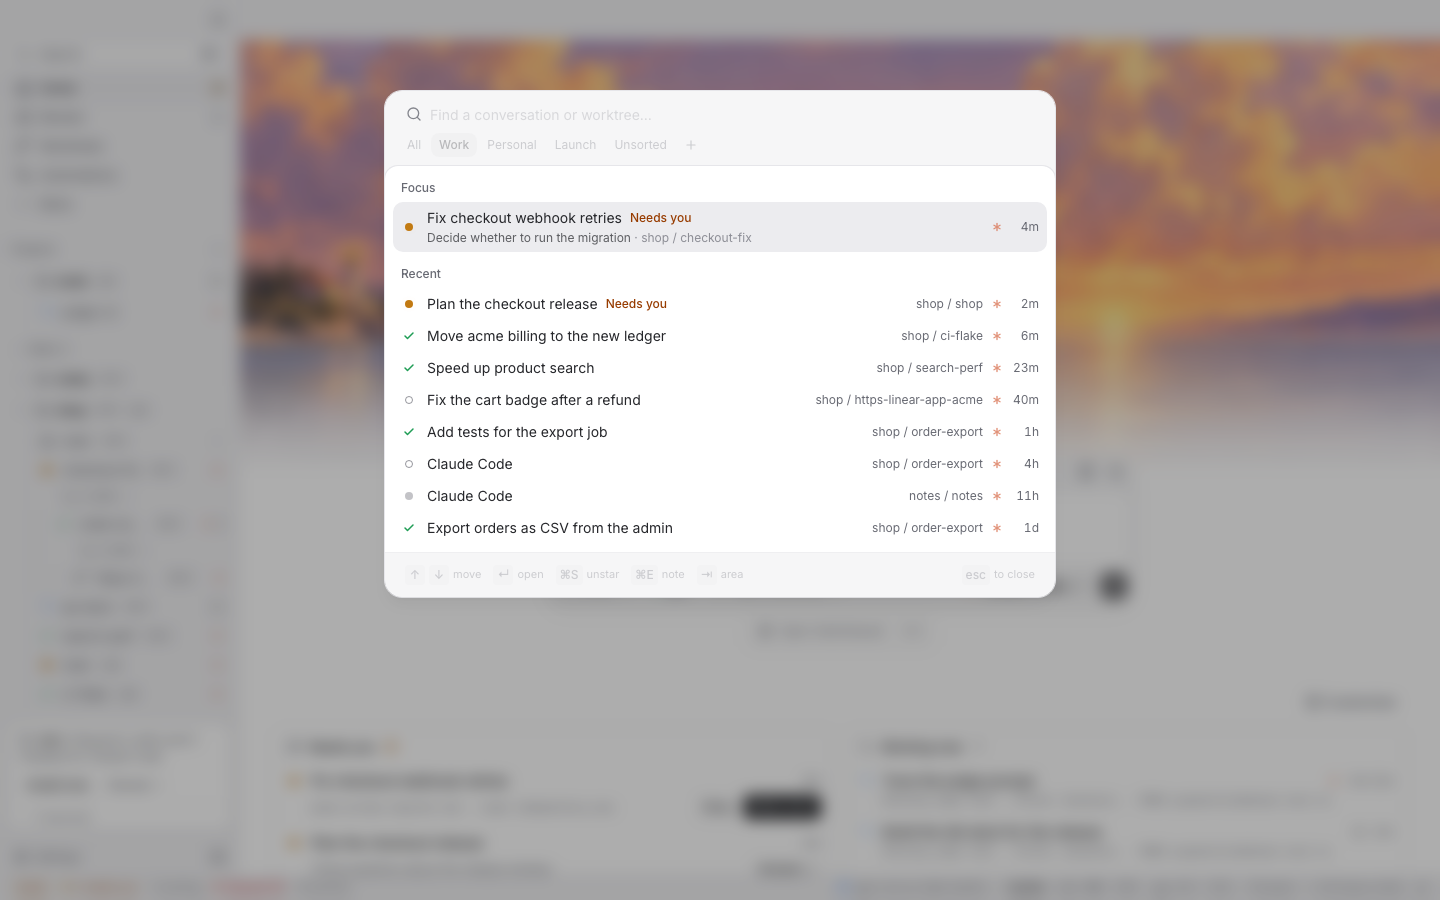
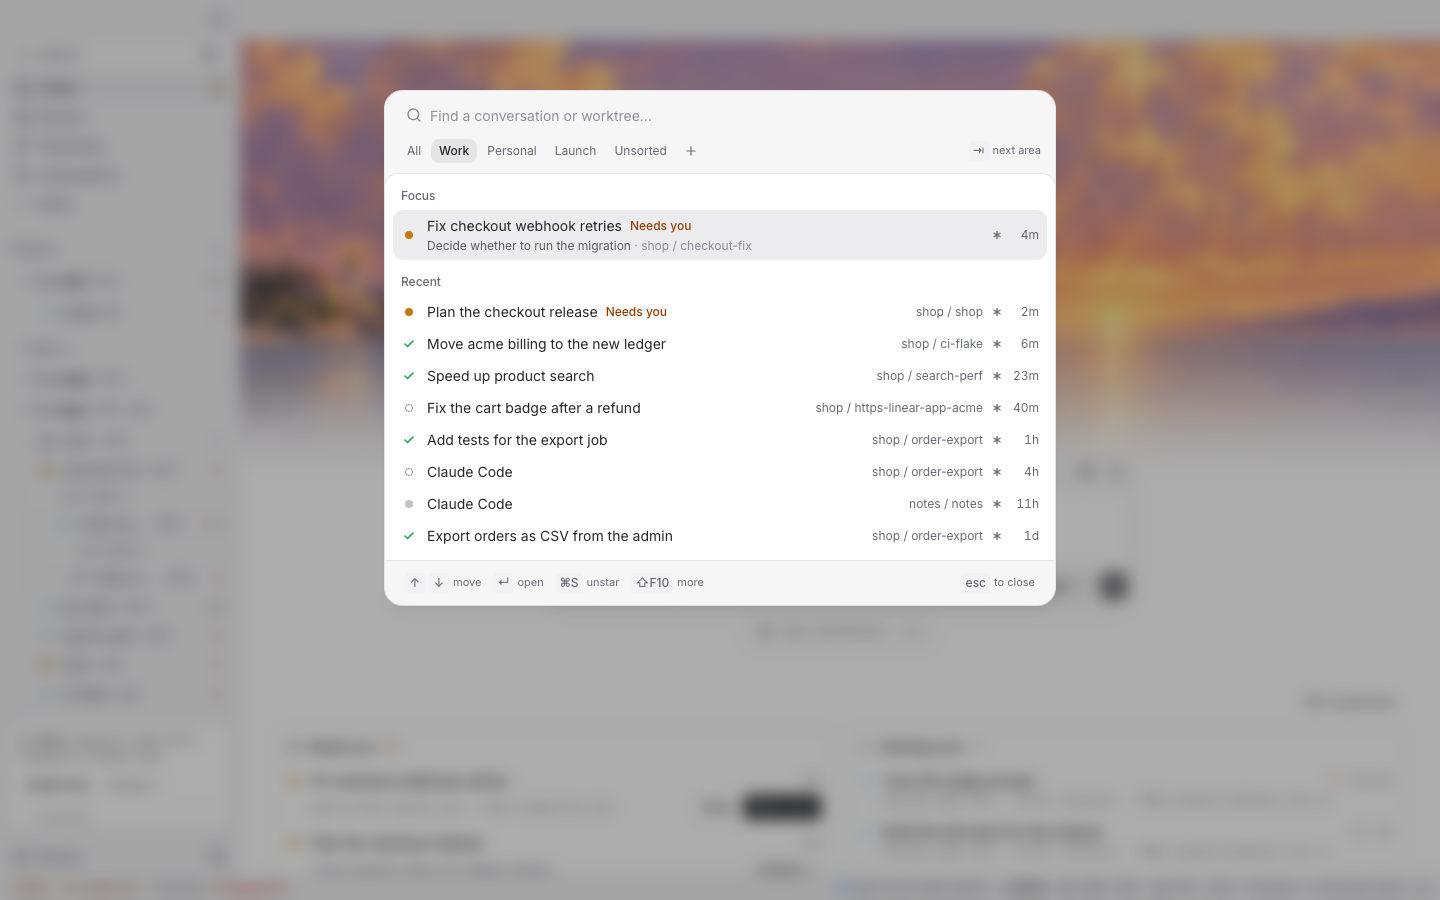
fix(app): switchboard rows let state carry the colour, and its keys read clearly
Agent glyphs in the Switchboard are muted, the highlighted row shows
plainly in dark themes (the palette's too), the search and footer sit
above the shell's tint so they read at full contrast, and the footer
keeps to four keys with Tab shown beside the areas it steps through.

Changed region(s): [[0.25, 0.1244, 0.75, 0.6844], [0.6875, 0.2489, 0.7188, 0.28], [0.6875, 0.1556, 0.7188, 0.1867]]

diff --git a/app/src/components/switchboard.tsx b/app/src/components/switchboard.tsx
@@ -281,7 +281,9 @@ export function Switchboard() {
       }}
     >
       <CommandDialogPopup aria-label="Switchboard" initialFocus={search} className="max-h-[min(34rem,calc(100vh-6rem))] max-w-2xl">
-        <div className="flex h-11 items-center gap-2 px-[calc(--spacing(5.5)-1px)] pt-1.5 sm:h-10">
+        {/* Positioned, like the palette's input, so the shell's tint
+            (the popup's ::before) is under it, not over it. */}
+        <div className="relative flex h-12 items-center gap-2 px-[calc(--spacing(5.5)-1px)] pt-1.5 pb-0.5 sm:h-11">
           <SearchIcon aria-hidden className="size-4 shrink-0 text-muted-foreground opacity-80" />
           <input
             ref={search}
@@ -333,18 +335,21 @@ export function Switchboard() {
             </div>
           </ScrollArea>
         </CommandPanel>
-        <CommandFooter className="text-[11px] text-muted-foreground">
+        <CommandFooter className="relative text-[11px] text-muted-foreground">
           {editing ? (
             <span className="flex items-center gap-1">
               <Kbd>↵</Kbd> to save the note
             </span>
           ) : (
             <span className="flex items-center gap-3">
-              {current && <Hint keys={["↑", "↓"]}>move</Hint>}
-              {current && <Hint keys={["↵"]}>open</Hint>}
-              {current && <Hint keys={["⌘S"]}>{starred ? "unstar" : "star"}</Hint>}
-              {current && <Hint keys={["⌘E"]}>note</Hint>}
-              <Hint keys={["⇥"]}>area</Hint>
+              {current && (
+                <>
+                  <Hint keys={["↑", "↓"]}>move</Hint>
+                  <Hint keys={["↵"]}>open</Hint>
+                  <Hint keys={["⌘S"]}>{starred ? "unstar" : "star"}</Hint>
+                  <Hint keys={["⇧F10"]}>more</Hint>
+                </>
+              )}
             </span>
           )}
           <span className="flex items-center gap-1">
@@ -398,7 +403,7 @@ function Empty({ query, area }: { query: string; area: string }) {
 
 function AreaStrip({ areas, area, adding, onPick, onAdd, onAdded, onCancel }: { areas: string[]; area: string; adding?: { assign?: string }; onPick(name: string): void; onAdd(): void; onAdded(name: string): void; onCancel(): void }) {
   return (
-    <div className="flex items-center gap-0.5 px-3.5 pt-0.5 pb-2">
+    <div className="relative flex items-center gap-0.5 px-3.5 pt-1 pb-2.5">
       <div role="tablist" aria-label="Areas" className="flex min-w-0 items-center gap-0.5 overflow-x-auto">
         {areas.map((a) => (
           <button
@@ -423,6 +428,10 @@ function AreaStrip({ areas, area, adding, onPick, onAdd, onAdded, onCancel }: { 
           </button>
         </Tip>
       )}
+      {/* The strip's own key, where it applies, rather than in the footer. */}
+      <span aria-hidden className="ms-auto flex shrink-0 items-center gap-1 ps-2 text-[11px] text-muted-foreground">
+        <Kbd>⇥</Kbd> next area
+      </span>
     </div>
   );
 }
@@ -515,7 +524,7 @@ function Row({ listId, item, focus, note, showArea, areas, now, highlighted, edi
         data-row={item.id}
         data-highlighted={highlighted || undefined}
         onPointerMove={() => !highlighted && onHighlight()}
-        className="group/row scroll-my-2 rounded-lg data-highlighted:bg-accent data-popup-open:bg-accent"
+        className="group/row scroll-my-2 rounded-lg data-highlighted:bg-accent data-popup-open:bg-accent dark:data-highlighted:bg-foreground/9 dark:data-popup-open:bg-foreground/9"
       >
         <div className="relative">
           <div
@@ -548,7 +557,7 @@ function Row({ listId, item, focus, note, showArea, areas, now, highlighted, edi
             <div className="flex min-w-21 shrink-0 items-center justify-end gap-2 text-muted-foreground text-xs transition-opacity duration-100 group-hover/row:opacity-0 group-data-popup-open/row:opacity-0">
               {!twoLine && <span className="max-w-52 truncate">{item.place}</span>}
               {focus && showArea && item.area !== "Unsorted" && <span className="rounded-sm bg-muted px-1.5 py-px text-[11px] group-data-highlighted/row:bg-background/60">{item.area}</span>}
-              {item.agent && <AgentIcon agent={item.agent} className="size-3 opacity-80" />}
+              {item.agent && <AgentIcon agent={item.agent} muted className="size-3" />}
               <span className="w-7 text-right tabular-nums">{time}</span>
             </div>
           </div>

diff --git a/app/src/components/agent-glyph.tsx b/app/src/components/agent-glyph.tsx
@@ -8,23 +8,26 @@ import { useStore } from "@/lib/store";
 import { cn } from "@/lib/utils";
 
 // AgentIcon marks which agent a session runs, in the agent's own colour.
-export function AgentIcon({ agent, className }: { agent?: string; className?: string }) {
+// Muted, it takes the colour of the text around it (currentColor), for
+// lists where every row has one and state should carry the colour.
+export function AgentIcon({ agent, className, muted }: { agent?: string; className?: string; muted?: boolean }) {
   const cls = cn("size-3.5 shrink-0", className);
+  const tone = (c: string) => (muted ? undefined : c);
   switch (agent) {
     case "claude":
-      return <AsteriskIcon className={cn(cls, "text-[#d97757]")} strokeWidth={2.75} />;
+      return <AsteriskIcon className={cn(cls, tone("text-[#d97757]"))} strokeWidth={2.75} />;
     case "codex":
-      return <HexagonIcon className={cn(cls, "text-foreground/80")} strokeWidth={2.25} />;
+      return <HexagonIcon className={cn(cls, tone("text-foreground/80"))} strokeWidth={2.25} />;
     case "gemini":
-      return <SparkleIcon className={cn(cls, "text-[#6f9bff]")} strokeWidth={2.25} />;
+      return <SparkleIcon className={cn(cls, tone("text-[#6f9bff]"))} strokeWidth={2.25} />;
     case "pi":
-      return <span className={cn("shrink-0 font-semibold text-[#a78bfa] text-xs leading-none", className)}>π</span>;
+      return <span className={cn("shrink-0 font-semibold text-xs leading-none", tone("text-[#a78bfa]"), className)}>π</span>;
     case "omp":
-      return <span className={cn("shrink-0 font-semibold text-[#f472b6] text-xs leading-none", className)}>π</span>;
+      return <span className={cn("shrink-0 font-semibold text-xs leading-none", tone("text-[#f472b6]"), className)}>π</span>;
     case "opencode":
-      return <SquareTerminalIcon className={cn(cls, "text-foreground/80")} />;
+      return <SquareTerminalIcon className={cn(cls, tone("text-foreground/80"))} />;
     default:
-      return <TerminalIcon className={cn(cls, "text-muted-foreground")} />;
+      return <TerminalIcon className={cn(cls, tone("text-muted-foreground"))} />;
   }
 }
 

diff --git a/app/src/components/ui/command.tsx b/app/src/components/ui/command.tsx
@@ -210,7 +210,9 @@ export function CommandItem({
 }: React.ComponentProps<typeof AutocompleteItem>): React.ReactElement {
   return (
     <AutocompleteItem
-      className={cn("py-1.5", className)}
+      // In dark themes the accent (4% white) barely shows on the panel: the
+      // highlighted row gets a little more, so it reads as selected.
+      className={cn("py-1.5 dark:data-highlighted:bg-foreground/9", className)}
       data-slot="command-item"
       {...props}
     />
